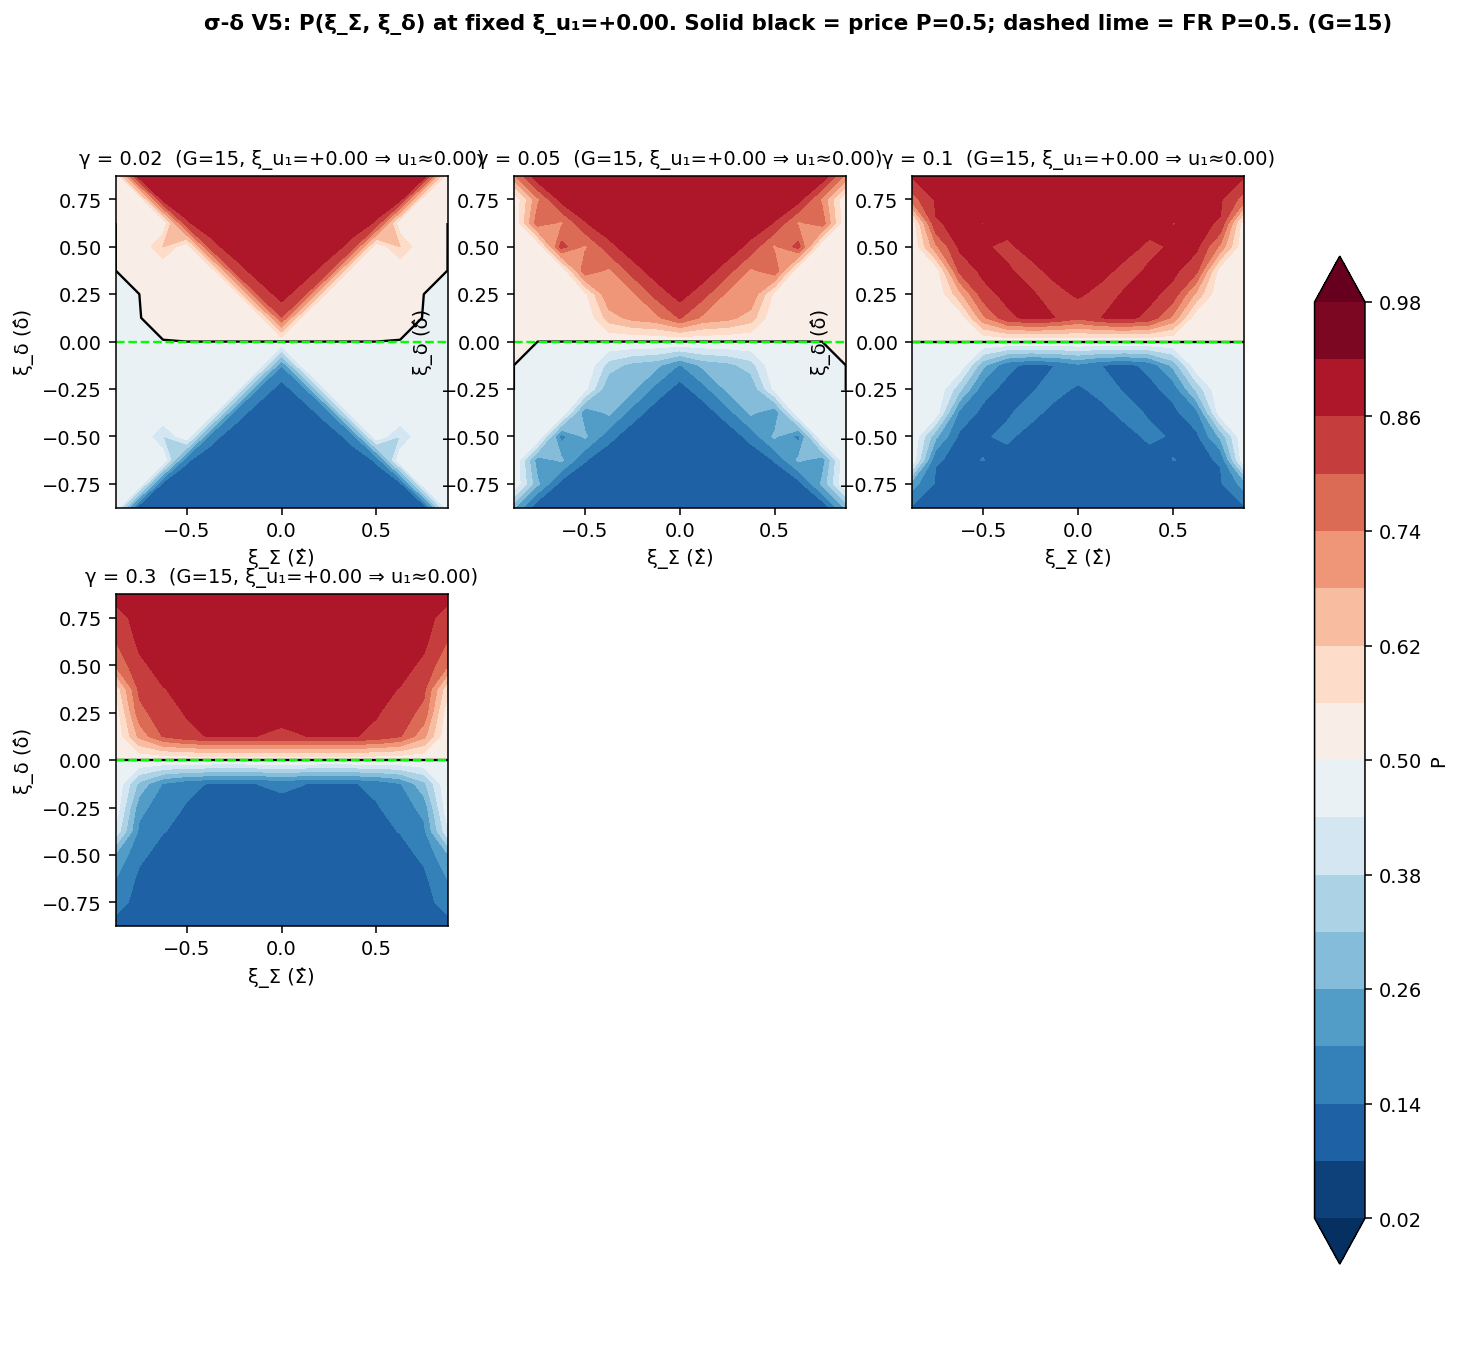
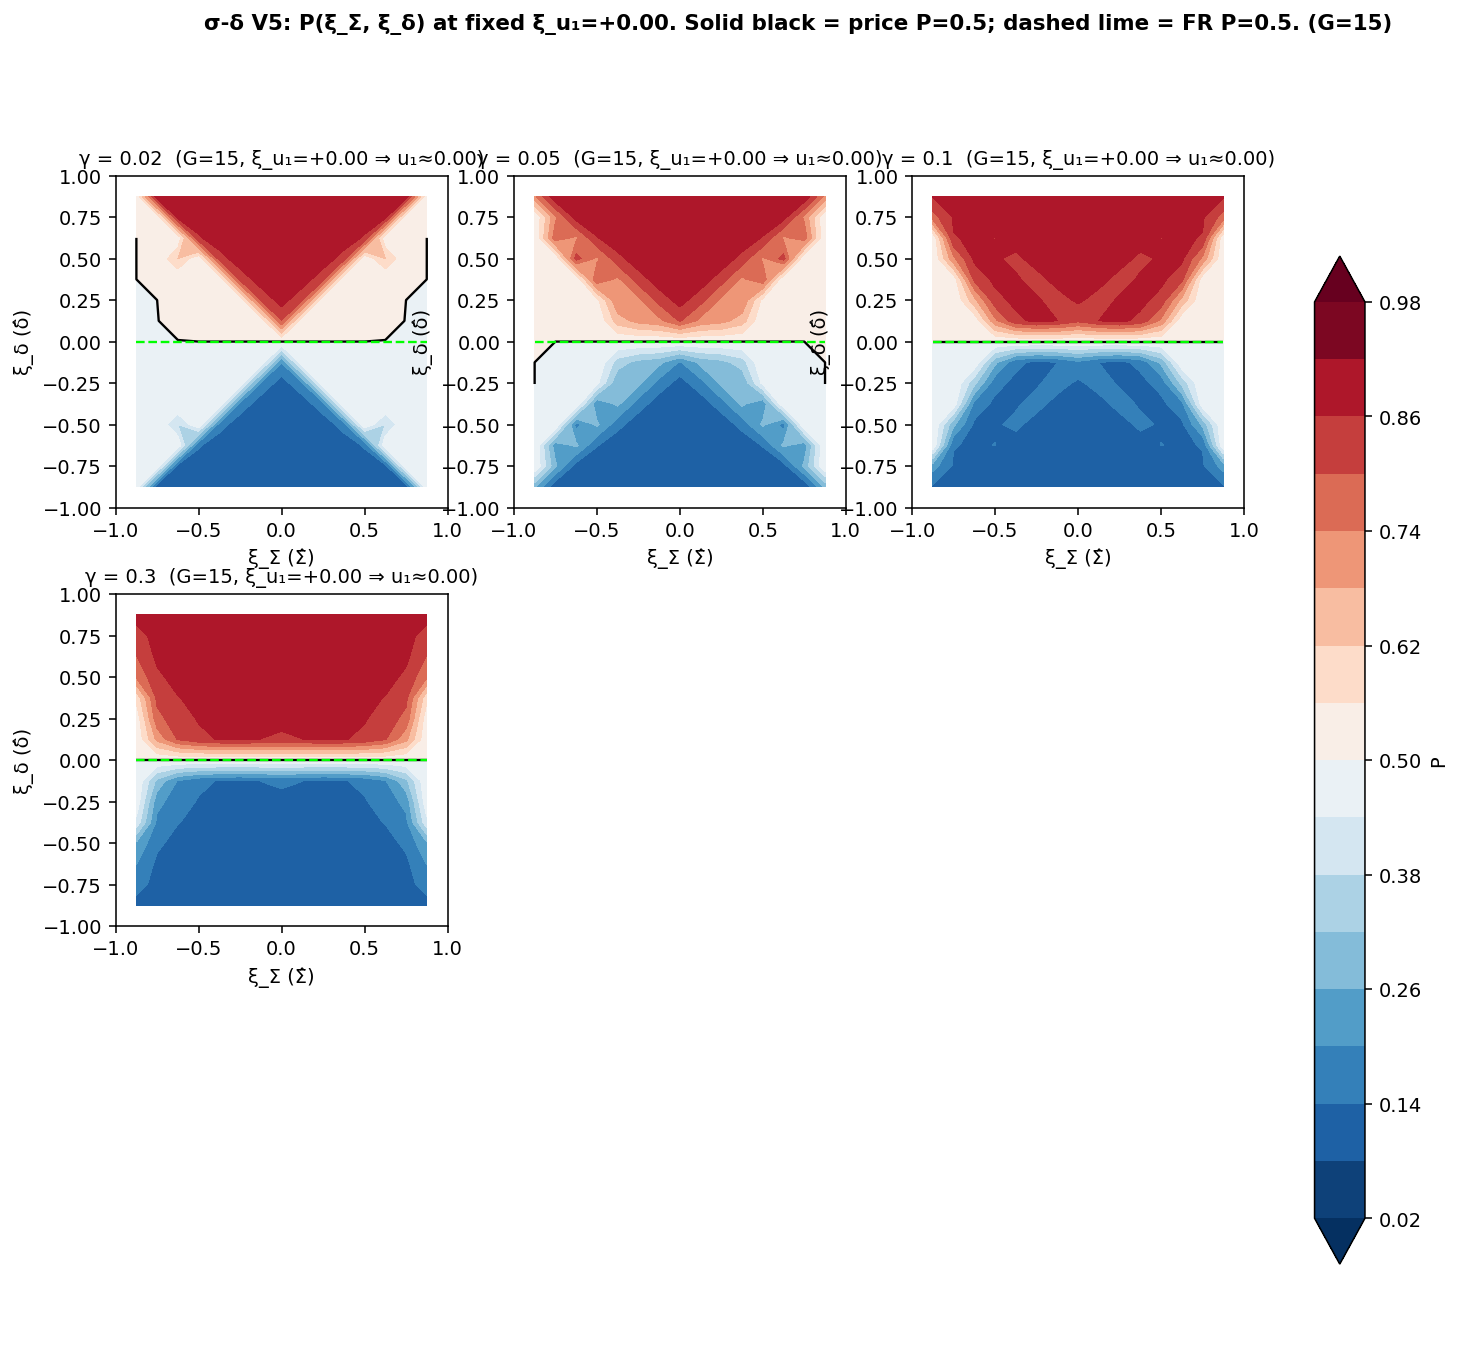
v5 xi-plane plots: enforce [-1, 1] square axes (full xi range)

diff --git a/projects/REZN/solver_code/sigma_delta/flint_sd_v5_np.py b/projects/REZN/solver_code/sigma_delta/flint_sd_v5_np.py
@@ -1,0 +1,271 @@
+"""V5 KERNEL CO-AREA on sigma-delta grid -- FAST NUMPY float64 version.
+
+Same algorithm as flint_sd_v5_kernel.py but pure-numpy with vectorized
+inner sums. Per-cell kernel sum becomes an einsum / matrix product over
+the (a, b) grid axes; outer (i, j, k) loop in Python.
+
+Verified at G=10 to match the flint V5 result (when run with the same h).
+
+Usage: import phi_sigdelta_v5_np and call from a driver.
+"""
+import numpy as np
+import math
+
+TAU_DEFAULT = 2.0
+
+def make_grids(G_full, TOT_u, TOT_S, TOT_d):
+    """Return xi_inner (no boundary), u_phys, S_phys, d_phys for axes."""
+    xi_full = np.linspace(-1.0, 1.0, G_full)
+    return xi_full
+
+def precompute(G_full, INNER_LO, INNER_HI, TOT_u, TOT_S, TOT_d, TAU):
+    """Precompute density / Jacobian arrays needed by the kernel sum.
+
+    Returns a dict with arrays:
+      xi_full[i]               (G_full,) ξ-values
+      u_full[i], S_full[i], d_full[i]  physical values (boundary -> ±inf placeholder)
+      J_u[i], J_S[i], J_d[i]   Jacobians 1/(1-xi^2); 0 at the boundary
+      f0_u[i], f1_u[i]         signal densities for own-u_1 axis
+      sg_grid_full[i,j]        sigmoid table not needed -- using direct f formulas
+      f_v_S[j], f_v_d[k]       not needed -- u_2 and u_3 depend on BOTH (S, d)
+      f_v_2d_0/1[j, k]         f_v(u_2(S[j], d[k])) * f_v(u_3(S[j], d[k])) for v=0, 1
+      J_2d[j, k]               J_S[j] * J_d[k]
+      f0_S/d, f1_S/d           not directly used
+    """
+    xi_full = np.linspace(-1.0, 1.0, G_full)
+    # physical values; boundary (xi = +-1) gives inf, we mark with 0 in f-grids
+    safe = np.clip(xi_full, -0.9999999, 0.9999999)
+    u_full = TOT_u * np.arctanh(safe)
+    S_full = TOT_S * np.arctanh(safe)
+    d_full = TOT_d * np.arctanh(safe)
+    interior = np.abs(xi_full) < 1 - 1e-15
+    J_u = np.where(interior, 1.0/(1.0-xi_full**2), 0.0)
+    J_S = np.where(interior, 1.0/(1.0-xi_full**2), 0.0)
+    J_d = np.where(interior, 1.0/(1.0-xi_full**2), 0.0)
+    # 2D inner-axis grids (for agent 1: axes are S, d)
+    Sgrid, Dgrid = np.meshgrid(S_full, d_full, indexing='ij')
+    U2_2d = 0.5 * (Sgrid + Dgrid)
+    U3_2d = 0.5 * (Sgrid - Dgrid)
+    coef = math.sqrt(TAU / (2.0 * math.pi))
+    f0_2d = coef * np.exp(-0.5*TAU*(U2_2d + 0.5)**2) * coef * np.exp(-0.5*TAU*(U3_2d + 0.5)**2)
+    f1_2d = coef * np.exp(-0.5*TAU*(U2_2d - 0.5)**2) * coef * np.exp(-0.5*TAU*(U3_2d - 0.5)**2)
+    # zero out boundary rows / cols (xi = +-1)
+    bd = ~interior
+    f0_2d[bd, :] = 0; f0_2d[:, bd] = 0
+    f1_2d[bd, :] = 0; f1_2d[:, bd] = 0
+    J_2d = np.outer(J_S, J_d)
+    # 1D own-signal densities
+    f0_u = coef * np.exp(-0.5*TAU*(u_full + 0.5)**2)
+    f1_u = coef * np.exp(-0.5*TAU*(u_full - 0.5)**2)
+    f0_u[bd] = 0; f1_u[bd] = 0
+    # Pre-baked agent-1 weight tensors
+    W0_a1 = f0_2d * J_2d  # (G_full, G_full)
+    W1_a1 = f1_2d * J_2d
+    return dict(xi_full=xi_full, u_full=u_full, S_full=S_full, d_full=d_full,
+                interior=interior, J_u=J_u, J_S=J_S, J_d=J_d,
+                f0_u=f0_u, f1_u=f1_u, W0_a1=W0_a1, W1_a1=W1_a1,
+                INNER_LO=INNER_LO, INNER_HI=INNER_HI, TAU=TAU,
+                TOT_u=TOT_u, TOT_S=TOT_S, TOT_d=TOT_d, coef=coef)
+
+
+def _interp_sigma(P, i_u, k_d, Sigma_target, xi_full, TOT_S, idx_cache=None):
+    """Linear interp of P[i_u, :, k_d] at xi corresponding to Sigma_target."""
+    G = xi_full.size
+    if Sigma_target > 1e10: return P[i_u, G-1, k_d]
+    if Sigma_target < -1e10: return P[i_u, 0, k_d]
+    xi_t = math.tanh(Sigma_target / TOT_S)
+    if xi_t <= xi_full[0]: return P[i_u, 0, k_d]
+    if xi_t >= xi_full[-1]: return P[i_u, G-1, k_d]
+    j = int(np.searchsorted(xi_full, xi_t) - 1)
+    j = max(0, min(G-2, j))
+    denom = xi_full[j+1] - xi_full[j]
+    if denom == 0: return P[i_u, j, k_d]
+    frac = (xi_t - xi_full[j]) / denom
+    return (1-frac) * P[i_u, j, k_d] + frac * P[i_u, j+1, k_d]
+
+
+def _build_slice_oblique(P, u_cell, sign_for_other, pre):
+    """Build P_slice[a, b] of shape (G_full, G_full) where
+      a indexes u_1 (axis 0 of P)
+      b indexes delta (axis 2 of P)
+      Sigma_req(b) = 2*u_cell + sign_for_other*delta[b]
+    using linear Sigma-interp.
+    """
+    G = pre['xi_full'].size
+    xi_full = pre['xi_full']; TOT_S = pre['TOT_S']; d_full = pre['d_full']
+    interior = pre['interior']
+    # Compute Sigma_req at each b
+    Sigma_req = np.empty(G)
+    # at boundary b, use sign * 1e10
+    for b in range(G):
+        if interior[b]:
+            Sigma_req[b] = 2*u_cell + sign_for_other * d_full[b]
+        else:
+            Sigma_req[b] = 2*u_cell + sign_for_other * math.copysign(1e10, xi_full[b])
+    # for each b, find xi_t and the bracketing interval
+    P_slc = np.empty((G, G))
+    for b in range(G):
+        St = Sigma_req[b]
+        if St > 1e10:
+            P_slc[:, b] = P[:, G-1, b]; continue
+        if St < -1e10:
+            P_slc[:, b] = P[:, 0, b]; continue
+        xi_t = math.tanh(St / TOT_S)
+        if xi_t <= xi_full[0]: P_slc[:, b] = P[:, 0, b]; continue
+        if xi_t >= xi_full[-1]: P_slc[:, b] = P[:, G-1, b]; continue
+        j = int(np.searchsorted(xi_full, xi_t) - 1)
+        j = max(0, min(G-2, j))
+        denom = xi_full[j+1] - xi_full[j]
+        if denom == 0:
+            P_slc[:, b] = P[:, j, b]; continue
+        frac = (xi_t - xi_full[j]) / denom
+        P_slc[:, b] = (1-frac) * P[:, j, b] + frac * P[:, j+1, b]
+    return P_slc
+
+
+def phi_sigdelta_v5_np(P, pre, gamma, h, clearing='crra'):
+    """One Picard step of V5 kernel co-area sigma-delta operator (numpy float64).
+    P: shape (G_full,)*3, full-grid including boundary halo.
+    Returns P_new (boundary unchanged here -- caller should re-apply set_boundary).
+    """
+    G_full = P.shape[0]
+    INNER_LO = pre['INNER_LO']; INNER_HI = pre['INNER_HI']
+    TAU = pre['TAU']
+    xi_full = pre['xi_full']; u_full = pre['u_full']; S_full = pre['S_full']; d_full = pre['d_full']
+    J_u = pre['J_u']; J_S = pre['J_S']; J_d = pre['J_d']
+    f0_u = pre['f0_u']; f1_u = pre['f1_u']
+    W0_a1 = pre['W0_a1']; W1_a1 = pre['W1_a1']
+    interior = pre['interior']
+    TOT_u = pre['TOT_u']; TOT_S = pre['TOT_S']; TOT_d = pre['TOT_d']
+    coef = pre['coef']
+    inv_2h2 = 0.5 / (h * h)
+    eps_p = 1e-40
+
+    P_new = P.copy()
+
+    # ----- Agent 1 ----- vectorized over (j, k) for each i
+    # For each i (in inner range), slice = P[i, :, :] (G_full, G_full)
+    # For each inner cell (j, k), p_target = P[i, j, k]
+    # diff[j, k, a, b] = P[i, a, b] - P[i, j, k]
+    # K = exp(-diff^2 * inv_2h2)
+    # A0[j, k] = einsum('jkab,ab->jk', K, W0_a1)
+    # A1[j, k] = einsum('jkab,ab->jk', K, W1_a1)
+
+    # To save memory at large G, loop over i but vectorize over (j, k)
+    G_inner = INNER_HI - INNER_LO
+    A0_a1 = np.zeros((G_inner, G_inner, G_inner))
+    A1_a1 = np.zeros((G_inner, G_inner, G_inner))
+    for i in range(INNER_LO, INNER_HI):
+        if not interior[i]: continue
+        slc = P[i, :, :]  # (G_full, G_full)
+        p_inner = P[i, INNER_LO:INNER_HI, INNER_LO:INNER_HI]  # (G_inner, G_inner)
+        # diff[j, k, a, b]
+        diff = slc[None, None, :, :] - p_inner[:, :, None, None]
+        K = np.exp(-diff*diff*inv_2h2)
+        # contract over (a, b)
+        A0_a1[i-INNER_LO] = np.einsum('jkab,ab->jk', K, W0_a1)
+        A1_a1[i-INNER_LO] = np.einsum('jkab,ab->jk', K, W1_a1)
+    f0_u_inner = f0_u[INNER_LO:INNER_HI]; f1_u_inner = f1_u[INNER_LO:INNER_HI]
+    # mu0[ii, j, k] = f1_u[i]*A1 / (f0_u[i]*A0 + f1_u[i]*A1)
+    den = f0_u_inner[:, None, None] * A0_a1 + f1_u_inner[:, None, None] * A1_a1
+    num = f1_u_inner[:, None, None] * A1_a1
+    mu0 = np.where(den > 0, num/den, 0.5)
+    mu0 = np.clip(mu0, eps_p, 1-eps_p)
+
+    # ----- Agents 2 and 3 ----- loop over the inner block; vectorize inner kernel sum
+    mu1 = np.empty((G_inner, G_inner, G_inner))
+    mu2 = np.empty((G_inner, G_inner, G_inner))
+    for j in range(G_inner):
+        S_j = S_full[INNER_LO + j]
+        for k in range(G_inner):
+            d_k = d_full[INNER_LO + k]
+            u_2_cell = 0.5 * (S_j + d_k)
+            u_3_cell = 0.5 * (S_j - d_k)
+            # Agent 2: sign = -1 for delta
+            P_slc_a2 = _build_slice_oblique(P, u_2_cell, -1.0, pre)  # (G_full, G_full) = (u_1, delta)
+            # Per inner i, p_target = P[i, j, k] (already inner)
+            # Density weights: for each (a, b): f_v(u_1[a]) * f_v(u_other[b])
+            # u_other for agent 2 = u_2_cell - delta[b]  (varies with b)
+            # For each b, f_v_other = f_v(u_2_cell - d_full[b])
+            # Precompute u_other_b and f_v_other_b
+            u_other_b = u_2_cell - d_full  # (G_full,)
+            f0_oth = coef * np.exp(-0.5*TAU*(u_other_b + 0.5)**2) * interior.astype(float)
+            f1_oth = coef * np.exp(-0.5*TAU*(u_other_b - 0.5)**2) * interior.astype(float)
+            # Build W0_a2[a, b] = f0_u[a] * f0_oth[b] * J_u[a] * J_d[b]
+            W0_a2 = (f0_u[:, None] * f0_oth[None, :]) * np.outer(J_u, J_d)
+            W1_a2 = (f1_u[:, None] * f1_oth[None, :]) * np.outer(J_u, J_d)
+            # Inner sum over i:
+            p_inner_a2 = P[INNER_LO:INNER_HI, j+INNER_LO, k+INNER_LO]  # (G_inner,) -- p_target at fixed (j,k) for each i
+            # Wait that's the SAME (j, k) for all i. But the inner cell varies i.
+            # We want mu1 at each inner cell (i, j, k); p_target = P[i, j, k].
+            for ii in range(G_inner):
+                i = ii + INNER_LO
+                if not interior[i]: mu1[ii, j, k] = 0.5; continue
+                p_t = P[i, j+INNER_LO, k+INNER_LO]
+                diff = P_slc_a2 - p_t  # (G_full, G_full)
+                K = np.exp(-diff*diff*inv_2h2)
+                A0 = (K * W0_a2).sum(); A1 = (K * W1_a2).sum()
+                f0o = f0_u[i]; f1o = f1_u[i]
+                f0_own_2 = coef * math.exp(-0.5*TAU*(u_2_cell + 0.5)**2)
+                f1_own_2 = coef * math.exp(-0.5*TAU*(u_2_cell - 0.5)**2)
+                den2 = f0_own_2 * A0 + f1_own_2 * A1
+                mu1[ii, j, k] = f1_own_2 * A1 / den2 if den2 > 0 else 0.5
+            # Agent 3: sign = +1
+            P_slc_a3 = _build_slice_oblique(P, u_3_cell, +1.0, pre)
+            u_other_b3 = u_3_cell + d_full
+            f0_oth3 = coef * np.exp(-0.5*TAU*(u_other_b3 + 0.5)**2) * interior.astype(float)
+            f1_oth3 = coef * np.exp(-0.5*TAU*(u_other_b3 - 0.5)**2) * interior.astype(float)
+            W0_a3 = (f0_u[:, None] * f0_oth3[None, :]) * np.outer(J_u, J_d)
+            W1_a3 = (f1_u[:, None] * f1_oth3[None, :]) * np.outer(J_u, J_d)
+            for ii in range(G_inner):
+                i = ii + INNER_LO
+                if not interior[i]: mu2[ii, j, k] = 0.5; continue
+                p_t = P[i, j+INNER_LO, k+INNER_LO]
+                diff = P_slc_a3 - p_t
+                K = np.exp(-diff*diff*inv_2h2)
+                A0 = (K * W0_a3).sum(); A1 = (K * W1_a3).sum()
+                f0_own_3 = coef * math.exp(-0.5*TAU*(u_3_cell + 0.5)**2)
+                f1_own_3 = coef * math.exp(-0.5*TAU*(u_3_cell - 0.5)**2)
+                den3 = f0_own_3 * A0 + f1_own_3 * A1
+                mu2[ii, j, k] = f1_own_3 * A1 / den3 if den3 > 0 else 0.5
+    mu1 = np.clip(mu1, eps_p, 1-eps_p)
+    mu2 = np.clip(mu2, eps_p, 1-eps_p)
+
+    # ----- clearing -----
+    if clearing == 'cara':
+        pi_ = (np.log(mu0/(1-mu0)) + np.log(mu1/(1-mu1)) + np.log(mu2/(1-mu2))) / 3.0
+        P_new[INNER_LO:INNER_HI, INNER_LO:INNER_HI, INNER_LO:INNER_HI] = 1.0/(1.0+np.exp(-pi_))
+    else:
+        # CRRA: per-cell bisection. Vectorize across all inner cells.
+        P_inner_new = _crra_clear_sym_vec(mu0, mu1, mu2, gamma, 1.0, steps=120)
+        P_new[INNER_LO:INNER_HI, INNER_LO:INNER_HI, INNER_LO:INNER_HI] = P_inner_new
+    return P_new
+
+
+def _crra_clear_sym_vec(mu0, mu1, mu2, gamma, W, steps=120):
+    """Bisection clearing for CRRA with symmetric weights, vectorized."""
+    eps = 1e-30
+    a = np.full_like(mu0, eps)
+    b = np.full_like(mu0, 1 - eps)
+    lm0 = np.log(mu0/(1-mu0)); lm1 = np.log(mu1/(1-mu1)); lm2 = np.log(mu2/(1-mu2))
+    for _ in range(steps):
+        m = 0.5*(a+b)
+        lp = np.log(m/(1-m))
+        R0 = np.exp((lm0-lp)/gamma)
+        R1 = np.exp((lm1-lp)/gamma)
+        R2 = np.exp((lm2-lp)/gamma)
+        e = W*(R0-1)/((1-m)+R0*m) + W*(R1-1)/((1-m)+R1*m) + W*(R2-1)/((1-m)+R2*m)
+        a = np.where(e > 0, m, a)
+        b = np.where(e > 0, b, m)
+    return 0.5*(a+b)
+
+
+def set_boundary_np(P):
+    G = P.shape[0]
+    P[0, :, :] = 0.0
+    P[G-1, :, :] = 1.0
+    P[:, 0, :] = 0.0
+    P[:, G-1, :] = 1.0
+    P[:, :, 0] = P[:, :, 1]
+    P[:, :, G-1] = P[:, :, G-2]
+    return P

diff --git a/projects/REZN/solver_code/sigma_delta/plot_v5_xi_contours.py b/projects/REZN/solver_code/sigma_delta/plot_v5_xi_contours.py
@@ -64,6 +64,7 @@ def make_xi_grid(Pdict, gammas_list, xi_inner, u_phys, S_phys, d_phys, xi_u1_tar
         ax.contour(xi_inner, xi_inner, FR_p, levels=[0.5], colors='lime', linewidths=1.2, linestyles='--')
         ax.set_title(f'γ = {g:g}  ({title_suffix}, ξ_u₁={xi_u_actual:+.2f} ⇒ u₁≈{u_actual:.2f})', fontsize=10)
         ax.set_xlabel('ξ_Σ (Σ̂)'); ax.set_ylabel('ξ_δ (δ̂)')
+        ax.set_xlim(-1, 1); ax.set_ylim(-1, 1)
         ax.set_aspect('equal')
         last_cs = cs
     if last_cs is not None:
@@ -102,6 +103,7 @@ def make_xi_logit_grid(Pdict, gammas_list, xi_inner, u_phys, S_phys, d_phys, xi_
         ax.contour(xi_inner, xi_inner, lp_FR, levels=[-4, -2, 0, 2, 4], colors='lime', linewidths=0.8, linestyles='--', alpha=0.85)
         ax.set_title(f'γ = {g:g}  (ξ_u₁={xi_u_actual:+.2f})', fontsize=10)
         ax.set_xlabel('ξ_Σ'); ax.set_ylabel('ξ_δ')
+        ax.set_xlim(-1, 1); ax.set_ylim(-1, 1)
         ax.set_aspect('equal')
         last_cs = cs
     if last_cs is not None:
